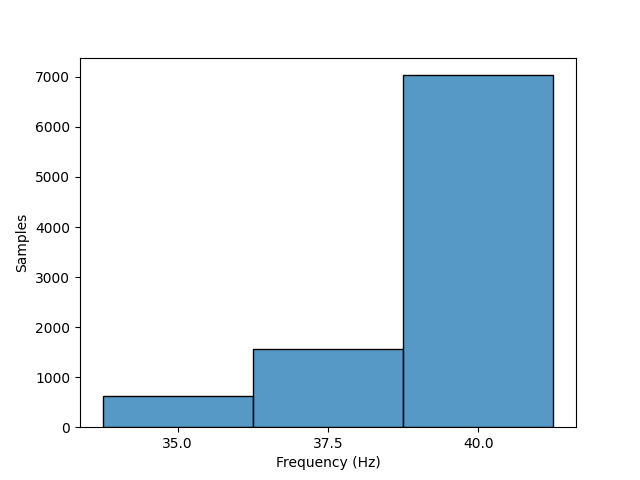
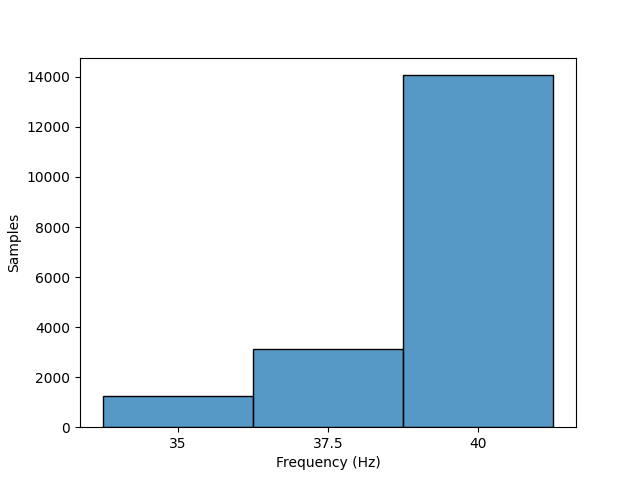
Update distributions in XJTU and RPDBCS docs

diff --git a/docs/datasets/XJTU.md b/docs/datasets/XJTU.md
@@ -14,7 +14,7 @@ Publications making use of the XJTU-SY bearing datasets are requested to cite th
 
 - Rotation Frequency: 35 ~ 40 Hz
 
-- Classes: Inner Race, Outer Race, Cage and NaN
+- Classes: Normal, Inner Race, Outer Race, Cage and NaN
 
 - Domain: Time
 
@@ -25,11 +25,12 @@ Publications making use of the XJTU-SY bearing datasets are requested to cite th
 #### Label distribution
 |   Label    | Number samples |
 |:----------:|:--------------:|
-| Inner Race |      2377      |
-| Outer Race |      3636      |
-|    Cage    |      655       |
-|    NaN     |      2548      |
-| **Total**  |      9216      |
+|   Normal   |     14564      |
+| Inner Race |      368       |
+| Outer Race |      1996      |
+|    Cage    |      876       |
+|    NaN     |      628       |
+| **Total**  |     18432      |
 
 ![image](../../images/XJTU/label_dist.png)
 
@@ -37,8 +38,8 @@ Publications making use of the XJTU-SY bearing datasets are requested to cite th
 #### Signal size distribution
 |   Size    | Number samples |
 |:---------:|:--------------:|
-|   32768   |      9216      |
-| **Total** |      9216      |
+|   32768   |     18432      |
+| **Total** |     18432      |
 
 ![image](../../images/XJTU/signal_size_dist.png)
 
@@ -46,9 +47,9 @@ Publications making use of the XJTU-SY bearing datasets are requested to cite th
 #### Rotatory frequency distribution
 | Frequency (Hz) | Number samples |
 |:--------------:|:--------------:|
-|       35       |      616       |
-|      37.5      |      1566      |
-|       40       |      7034      |
-|   **Total**    |      9216      |
+|       35       |      1232      |
+|      37.5      |      3132      |
+|       40       |     14068      |
+|   **Total**    |     18432      |
 
 ![image](../../images/XJTU/frequency_dist.png)

diff --git a/docs/datasets/RPDBCS.md b/docs/datasets/RPDBCS.md
@@ -46,11 +46,11 @@ This is a real-world dataset for vibration-based fault diagnosis of electric sub
 #### Label distribution
 |     Label     | Number samples |
 |:-------------:|:--------------:|
-|    Normal     |      4801      |
-|    Rubbing    |      290       |
-| Faulty Sensor |      295       |
-| Misalignment  |       70       |
-|   Unbalance   |      576       |
+|    Normal     |      4819      |
+|    Rubbing    |      151       |
+| Faulty Sensor |      297       |
+| Misalignment  |       81       |
+|   Unbalance   |      684       |
 |   **Total**   |      6032      |
 
 ![image](../../images/RPDBCS/label_dist.png)
